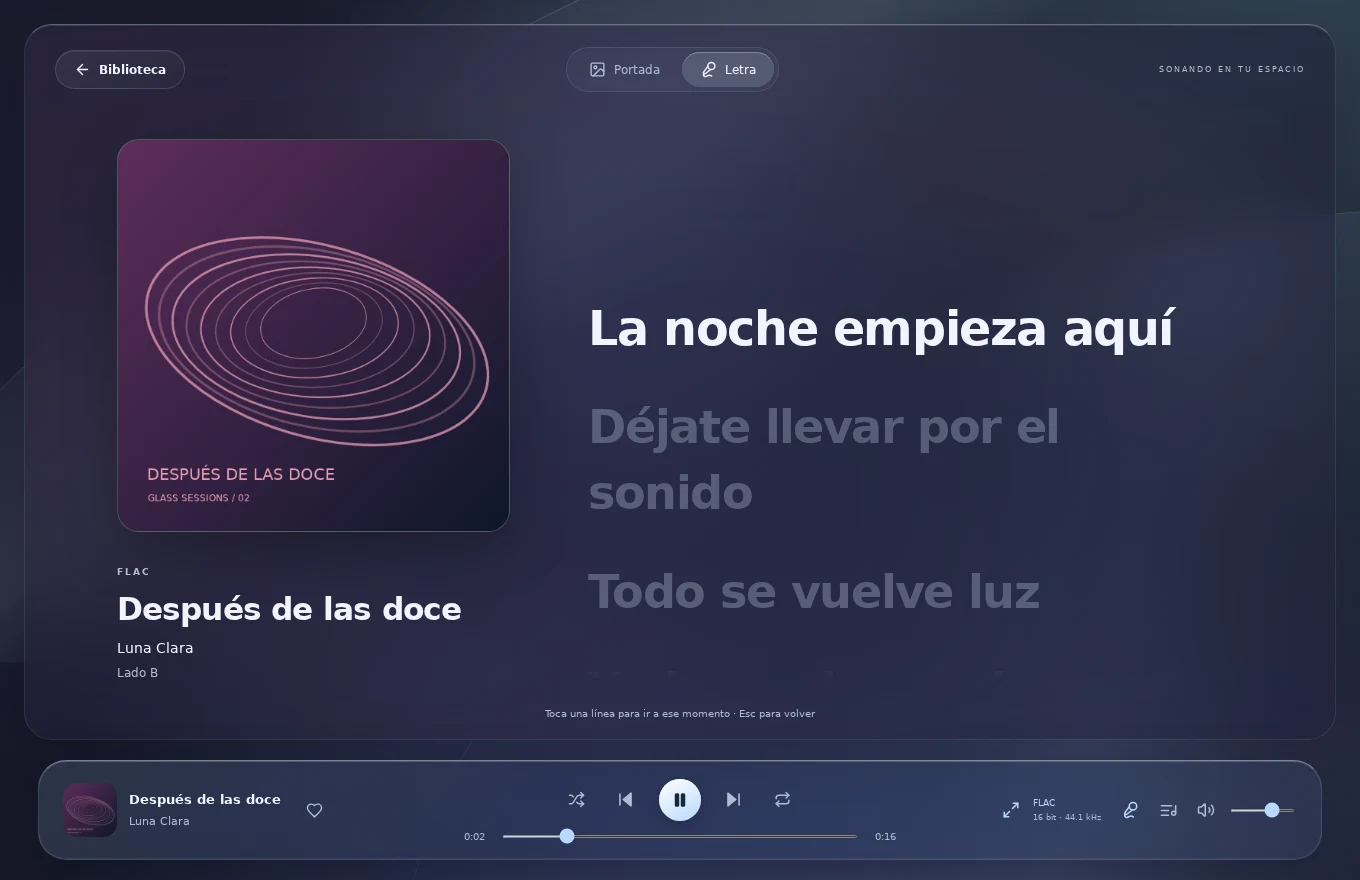
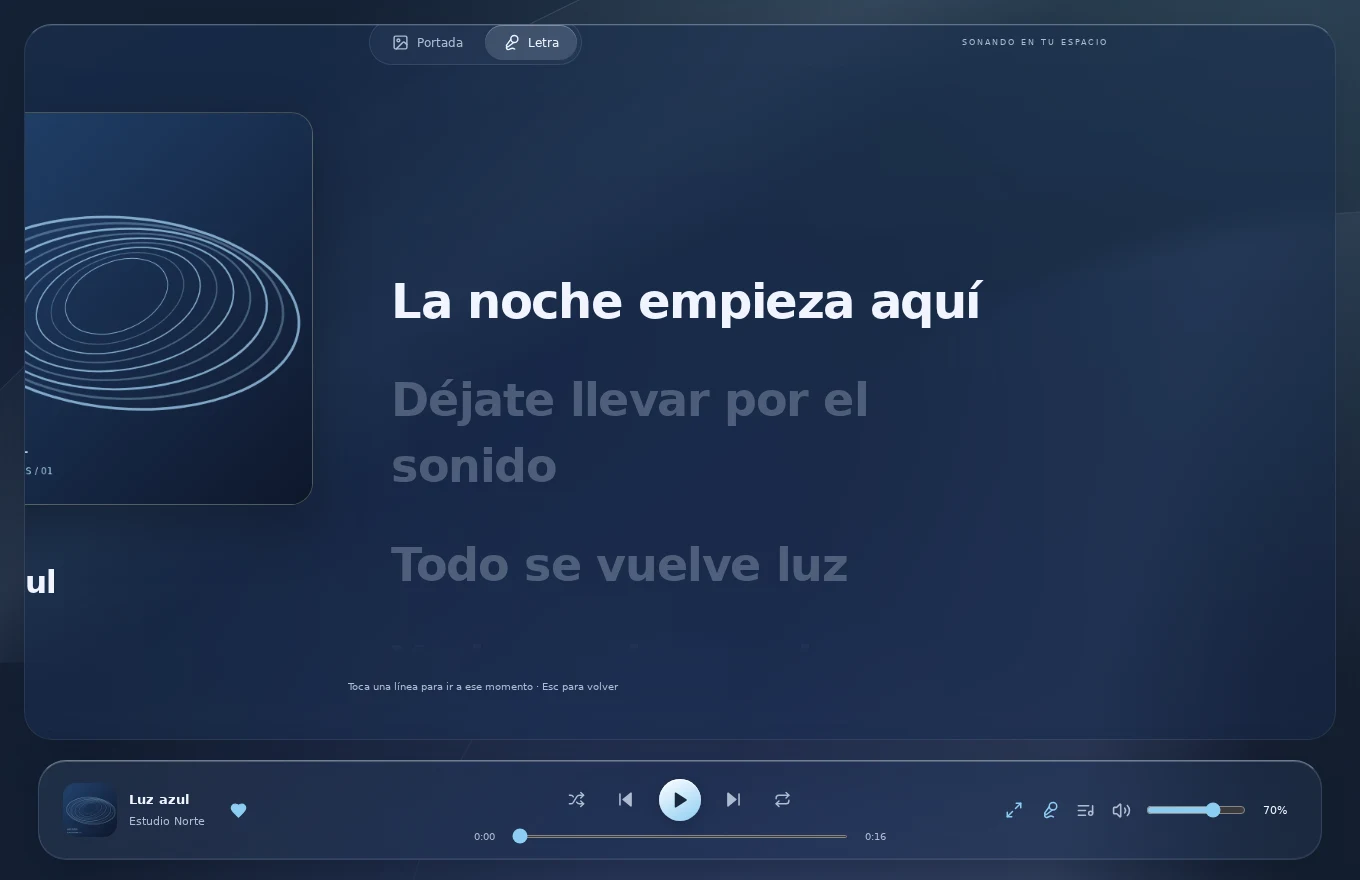
fix: cerrar validación visual y accesibilidad de Glass Music 0.2.0

diff --git a/src/App.tsx b/src/App.tsx
@@ -1039,6 +1039,7 @@ export default function App() {
           </div>
           <button
             className="profile"
+            aria-label={settings.profile.name + " Perfil local"}
             onClick={() => setModal({ type: "settings" })}
           >
             {settings.profile.photo ? (

diff --git a/src/styles.css b/src/styles.css
@@ -3656,3 +3656,9 @@ button:active:not(:disabled) {
   font-size: 11px;
   margin-top: 12px;
 }
+.editor {
+  --solid: #243147;
+}
+.editor.light {
+  --solid: #edf3fc;
+}

diff --git a/README.md b/README.md
@@ -4,8 +4,6 @@ Tu música local, a tu manera. Reproductor para Windows centrado en FLAC y MP3, 
 
 ![Interfaz de la alpha con archivos de prueba sintéticos](docs/interface.webp)
 
-[Ver las transiciones de la interfaz](docs/motion.mp4) · Vista previa con datos y audio sintéticos.
-
 ## Alpha 0.2.0
 
 - Azul **#8CCDF3** como color principal, incluido el icono de Windows. El logo de la interfaz sigue el color elegido.
